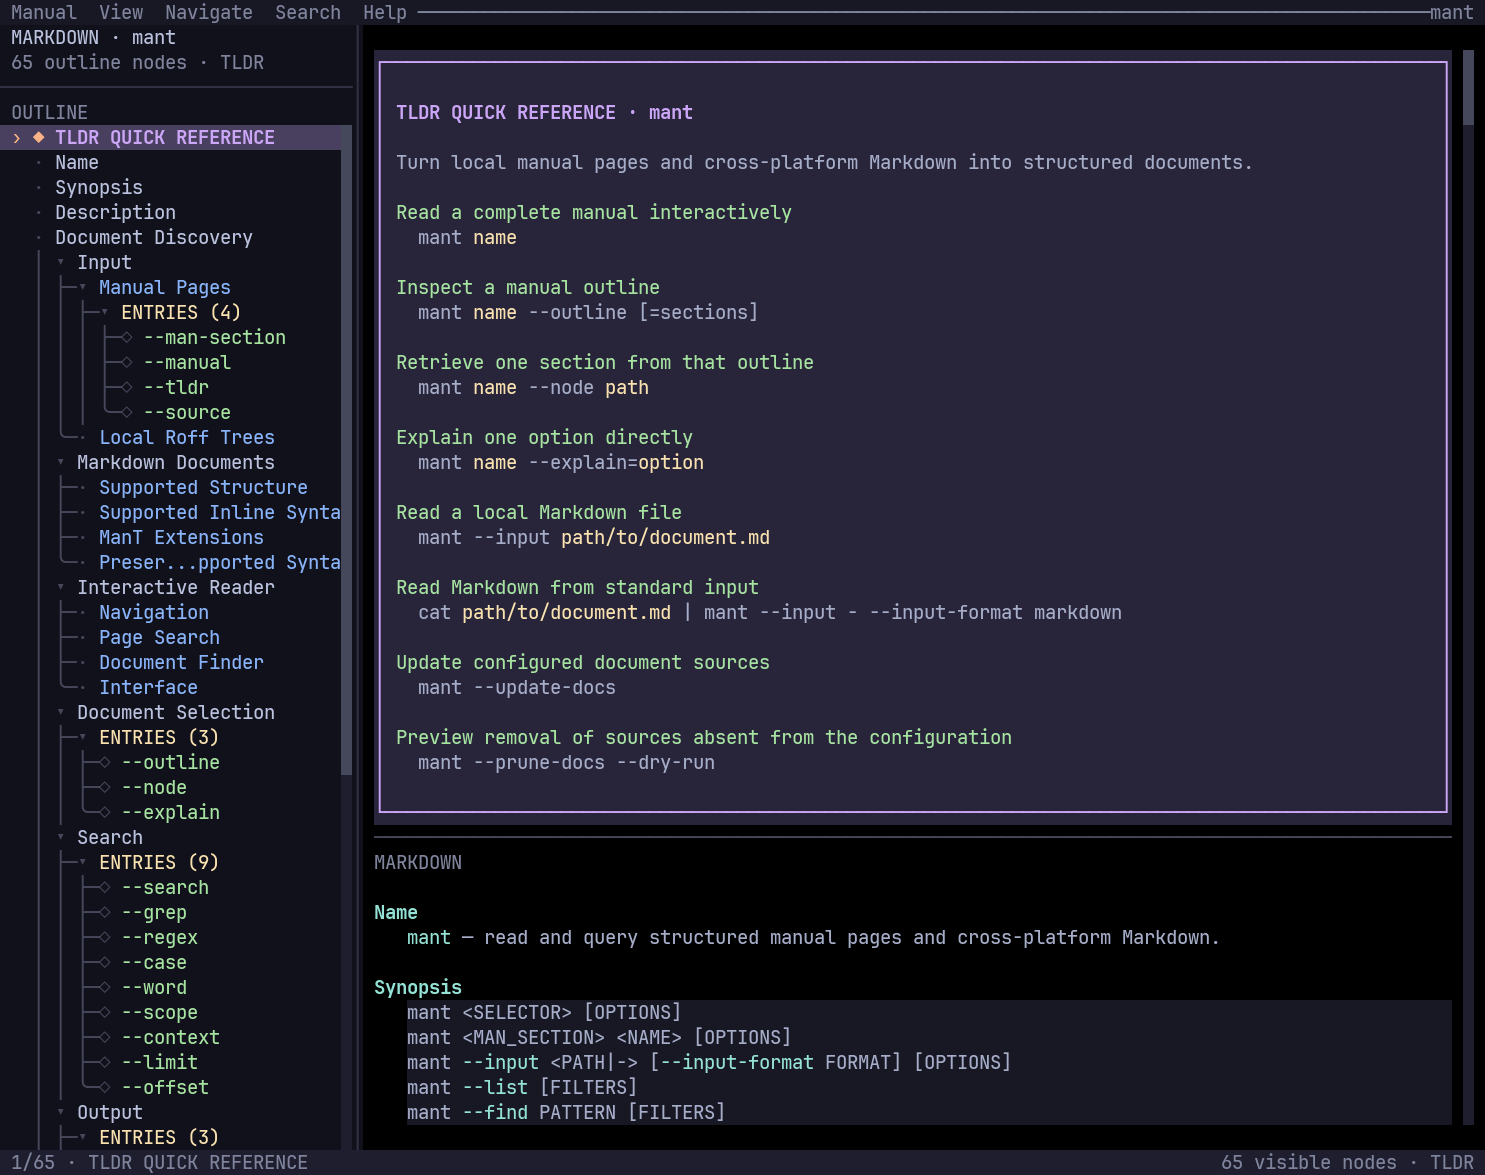
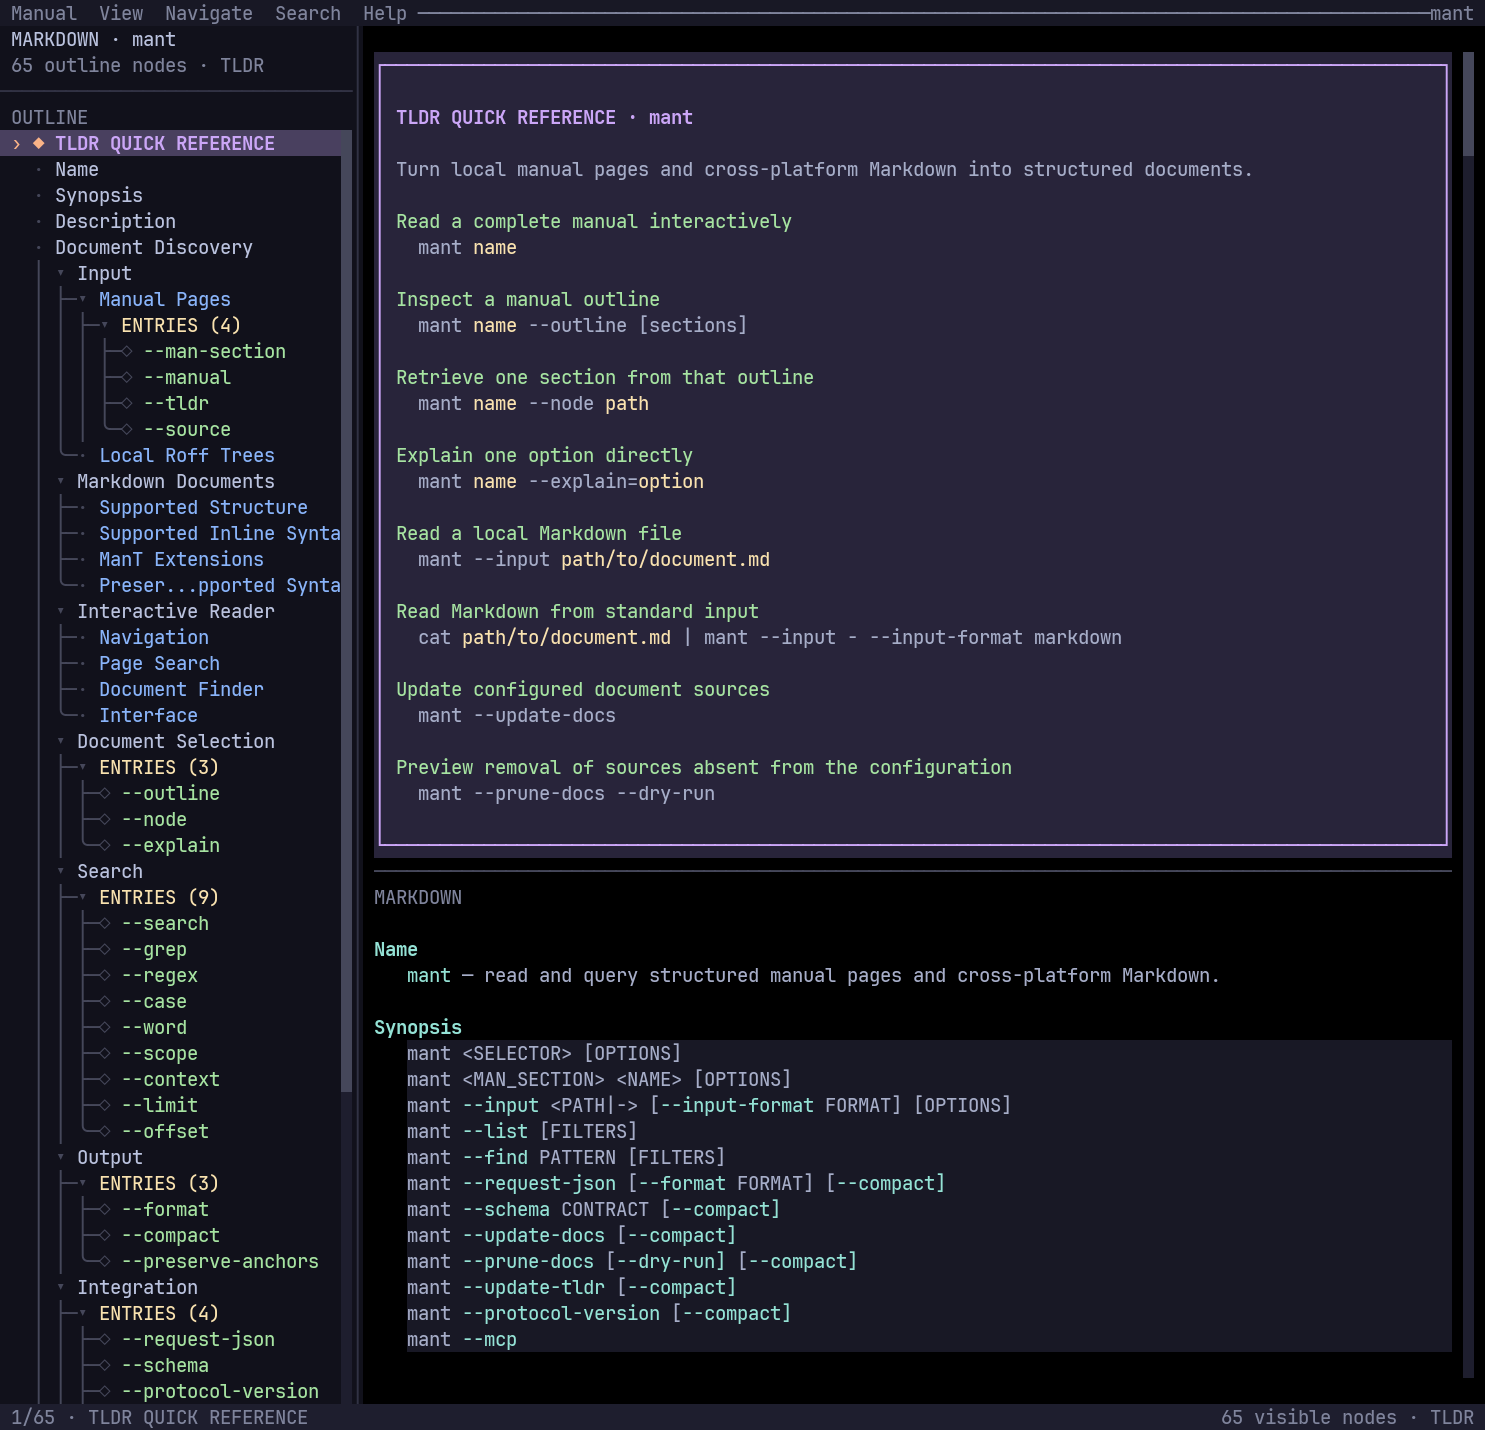
docs(reader): refresh self-manual screenshot

diff --git a/crates/mant-engine/tests/self_manuals.rs b/crates/mant-engine/tests/self_manuals.rs
@@ -57,7 +57,7 @@ fn shipped_manual_parses_without_lossy_fallbacks() {
     assert!(
         tldr.examples.iter().any(|example| {
             example.description == "Inspect a manual outline"
-                && example.command == "mant {{name}} --outline [=sections]"
+                && example.command == "mant {{name}} --outline [sections]"
         }),
         "{name} quick reference exposes the section-only outline"
     );

diff --git a/docs/manuals/mant.md b/docs/manuals/mant.md
@@ -9,7 +9,7 @@
 
 - Inspect a manual outline:
 
-`mant {{name}} --outline [=sections]`
+`mant {{name}} --outline [sections]`
 
 - Retrieve one section from that outline:
 
